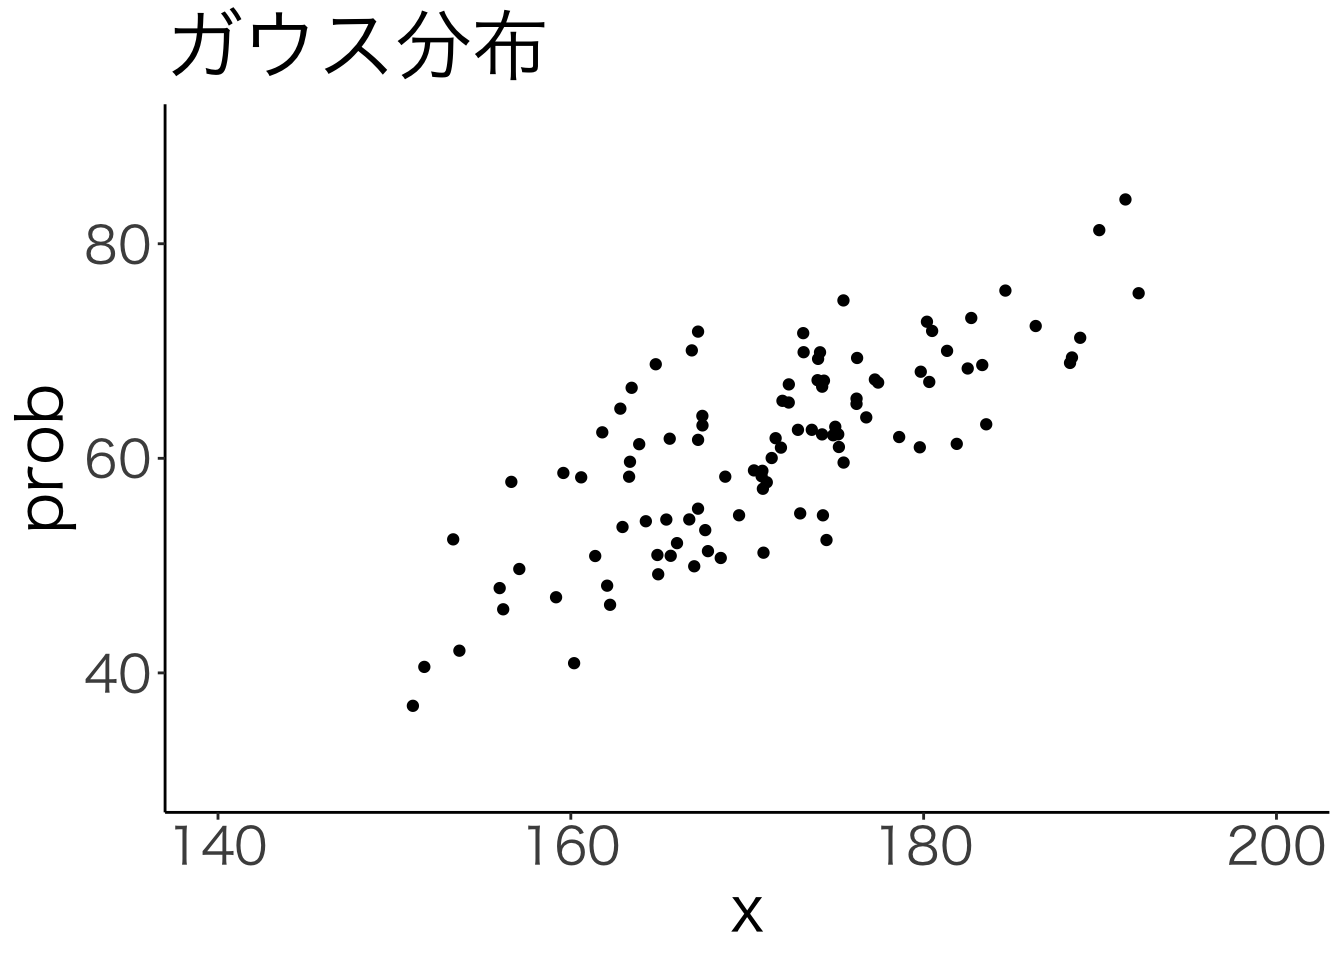
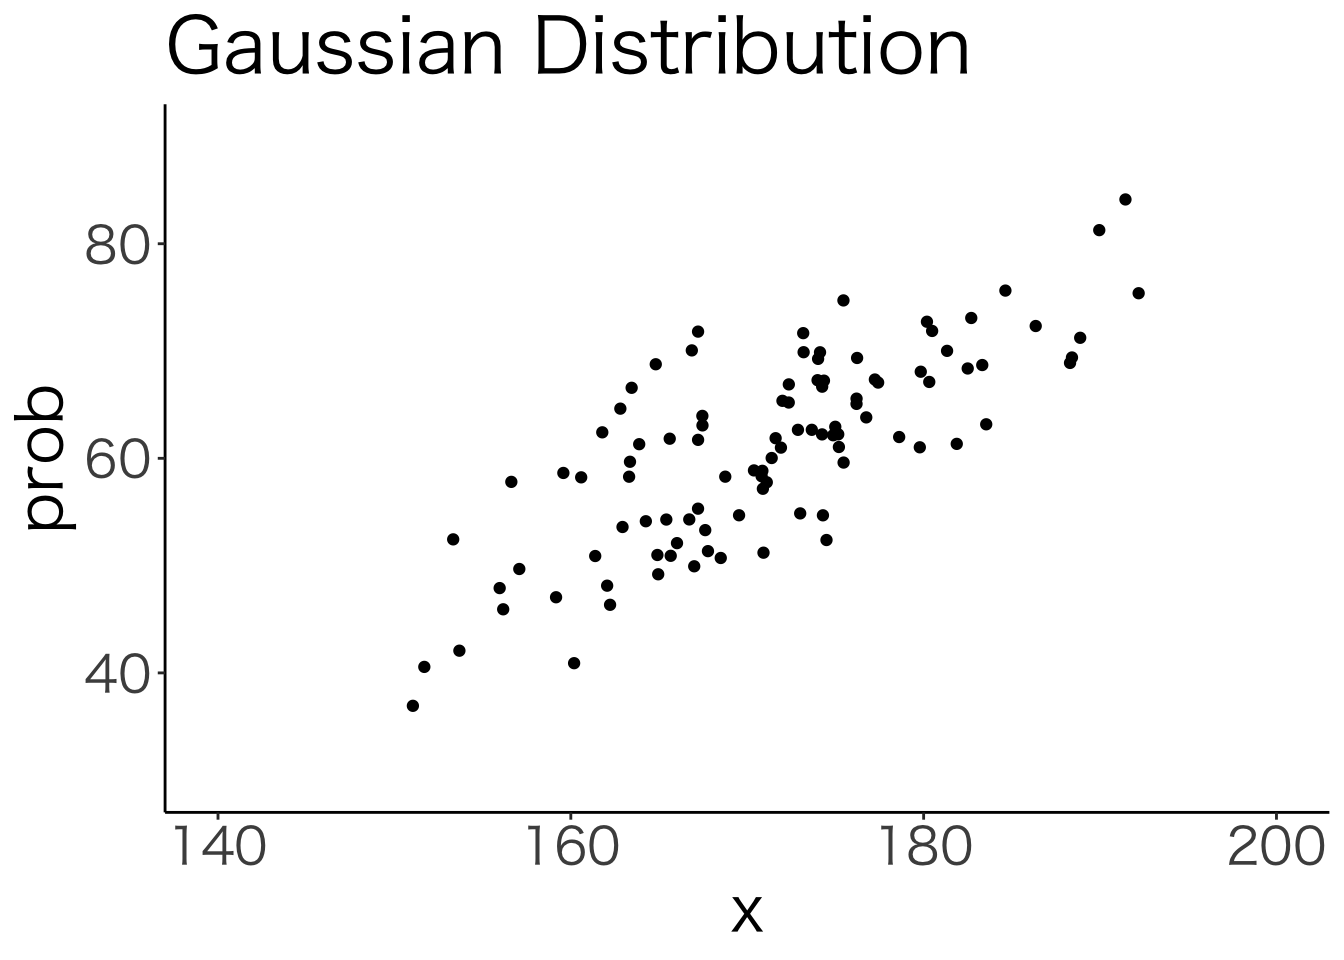
Bayeian Estimation with Multivariate Normal Distribution (lambda) added

Changed region(s): [[0.125, 0.0, 0.7188, 0.0938]]

diff --git a/content/post/2022-06-22-bayeian-estimation-with-multivariate-normal-distribution-lambda/index.html b/content/post/2022-06-22-bayeian-estimation-with-multivariate-normal-distribution-lambda/index.html
@@ -1,5 +1,5 @@
 ---
-title: Bayeian Estimation with Multivariate Normal Distribution (mu)
+title: Bayeian Estimation with Multivariate Normal Distribution (lambda)
 author: Akihiko Mori
 date: '2022-06-22'
 slug: []
@@ -12,8 +12,8 @@ tags:
 
 <div id="purpose" class="section level2">
 <h2>Purpose</h2>
-<p>Bayesian estimation of the parameter μ of Multivariate Gaussian (Normal) distribution will be implemented using R.
-For the prior distribution, Multivariate Gaussian distributions will be specified, and the posterior distribution will be obtained.
+<p>Bayesian estimation of the parameter Λ of Multivariate Gaussian (Normal) distribution will be implemented using R.
+For the prior distribution, Wishart distribution will be specified, and the posterior distribution will be obtained.
 This will implement this from data generation, so it can be reproduced by copy and paste.</p>
 </div>
 <div id="toc" class="section level2">
@@ -29,6 +29,7 @@ This will implement this from data generation, so it can be reproduced by copy a
 <div id="library" class="section level2">
 <h2>Library</h2>
 <pre class="r"><code>library(ggplot2)
+library(ellipse)
 library(MCMCpack)
 set.seed(1)</code></pre>
 </div>
@@ -38,43 +39,56 @@ set.seed(1)</code></pre>
 lambda &lt;- solve(matrix(c(100, 80, 80, 100), ncol = 2))
 samples &lt;- mvrnorm(100, mu = mu, Sigma = solve(lambda))
 
+ell &lt;- ellipse(centre=mu, solve(lambda))
 ggplot()+
   geom_point(aes(x=samples[,1], y=samples[,2]))+
-  labs(x=&quot;x&quot;, y=&quot;prob&quot;, title=&quot;Gaussian Distribution&quot;)+
+  labs(x=expression(x[1]), y=expression(x[2]), title=&quot;Multivariate Normal Distribution&quot;)+
   theme_classic(base_family = &quot;HiraKakuPro-W3&quot;) +
   theme(text = element_text(size = 24))+
-  lims(x=c(140,200), y=c(30,90))</code></pre>
+  lims(x=c(140,200), y=c(30,90))+
+  geom_polygon(data=as.data.frame(ell), aes(x,y), fill=NA,colour=&quot;black&quot;)</code></pre>
 <p><img src="{{< blogdown/postref >}}index_files/figure-html/unnamed-chunk-2-1.png" width="672" /></p>
 </div>
 <div id="prior-distribution" class="section level2">
 <h2>Prior Distribution</h2>
-<pre class="r"><code>mu_pre &lt;- c(150, 50)
-lambda_pre &lt;- solve(matrix(c(1000, 100, 100, 1000), ncol = 2))
-mu_samples_pre &lt;- mvrnorm(100, mu = mu_pre, Sigma = solve(lambda_pre))
+<pre class="r"><code>n_pre &lt;- 3
+w_pre &lt;- diag(2)*0.01
+lambda_sample_pre &lt;- rwish(n_pre, w_pre)
 
-plot &lt;- ggplot()+
-  geom_point(aes(x=mu_samples_pre[,1], y=mu_samples_pre[,2]))+
-  labs(x=expression(mu[1]), y=expression(mu[2]), title=&quot;Gaussian Distributions&quot;)+
-  theme_classic(base_family = &quot;HiraKakuPro-W3&quot;) +
-  theme(text = element_text(size = 24))+
-  lims(x=c(40,250), y=c(-50,160))
+plot &lt;- ggplot() +
+  theme_classic(base_family = &quot;HiraKakuPro-W3&quot;)+
+  theme(text = element_text(size = 20), legend.position=c(0.3,0.7)) +
+  labs(x=expression(x[1]), y=expression(x[2]), title=&quot;Wishart distribution&quot;) 
+for(i in 1:100){
+  lambda_samples_pre &lt;- rwish(n_pre, w_pre)
+  ell &lt;-  ellipse(centre=mu, solve(lambda_samples_pre))
+  plot &lt;- plot + geom_polygon(data=as.data.frame(ell),aes(x,y), fill=NA,colour=&quot;black&quot;)
+}
 plot</code></pre>
 <p><img src="{{< blogdown/postref >}}index_files/figure-html/unnamed-chunk-3-1.png" width="672" /></p>
 </div>
 <div id="data-generation" class="section level2">
 <h2>Data Generation</h2>
-<pre class="r"><code>data &lt;- mvrnorm(30, mu = mu, Sigma = solve(lambda))
+<pre class="r"><code>data &lt;- mvrnorm(100, mu = mu, Sigma = solve(lambda))
 N &lt;- nrow(data)</code></pre>
 </div>
 <div id="posterior-distribution" class="section level2">
 <h2>Posterior Distribution</h2>
 <div id="gaussian-distribution" class="section level3">
 <h3>Gaussian Distribution</h3>
-<pre class="r"><code>lambda_pos &lt;- N*lambda + lambda_pre
-mu_pos &lt;- solve(lambda_pos) %*% (lambda %*% apply(data, 2, sum) + lambda_pre %*% mu_pre)
-mu_samples_pos &lt;- mvrnorm(100, mu = mu_pos, Sigma = solve(lambda_pos))
+<pre class="r"><code>n_pos &lt;- N + n_pre
+S &lt;- 0
+for(i in 1:N){
+  S &lt;- S + (data[i,]-mu) %*% t(data[i,]-mu)
+}
+w_pos &lt;- solve(S + solve(w_pre))
 
-plot + geom_point(aes(x=mu_samples_pos[,1], y=mu_samples_pos[,2]), col=&quot;blue&quot;)</code></pre>
+for(i in 1:100){
+  lambda_samples_pos &lt;- rwish(n_pos, w_pos)
+  ell &lt;-  ellipse(centre=mu, solve(lambda_samples_pos))
+  plot &lt;- plot + geom_polygon(data=as.data.frame(ell),aes(x,y), fill=NA, colour=&quot;blue&quot;)
+}
+plot</code></pre>
 <p><img src="{{< blogdown/postref >}}index_files/figure-html/unnamed-chunk-5-1.png" width="672" /></p>
 </div>
 </div>
